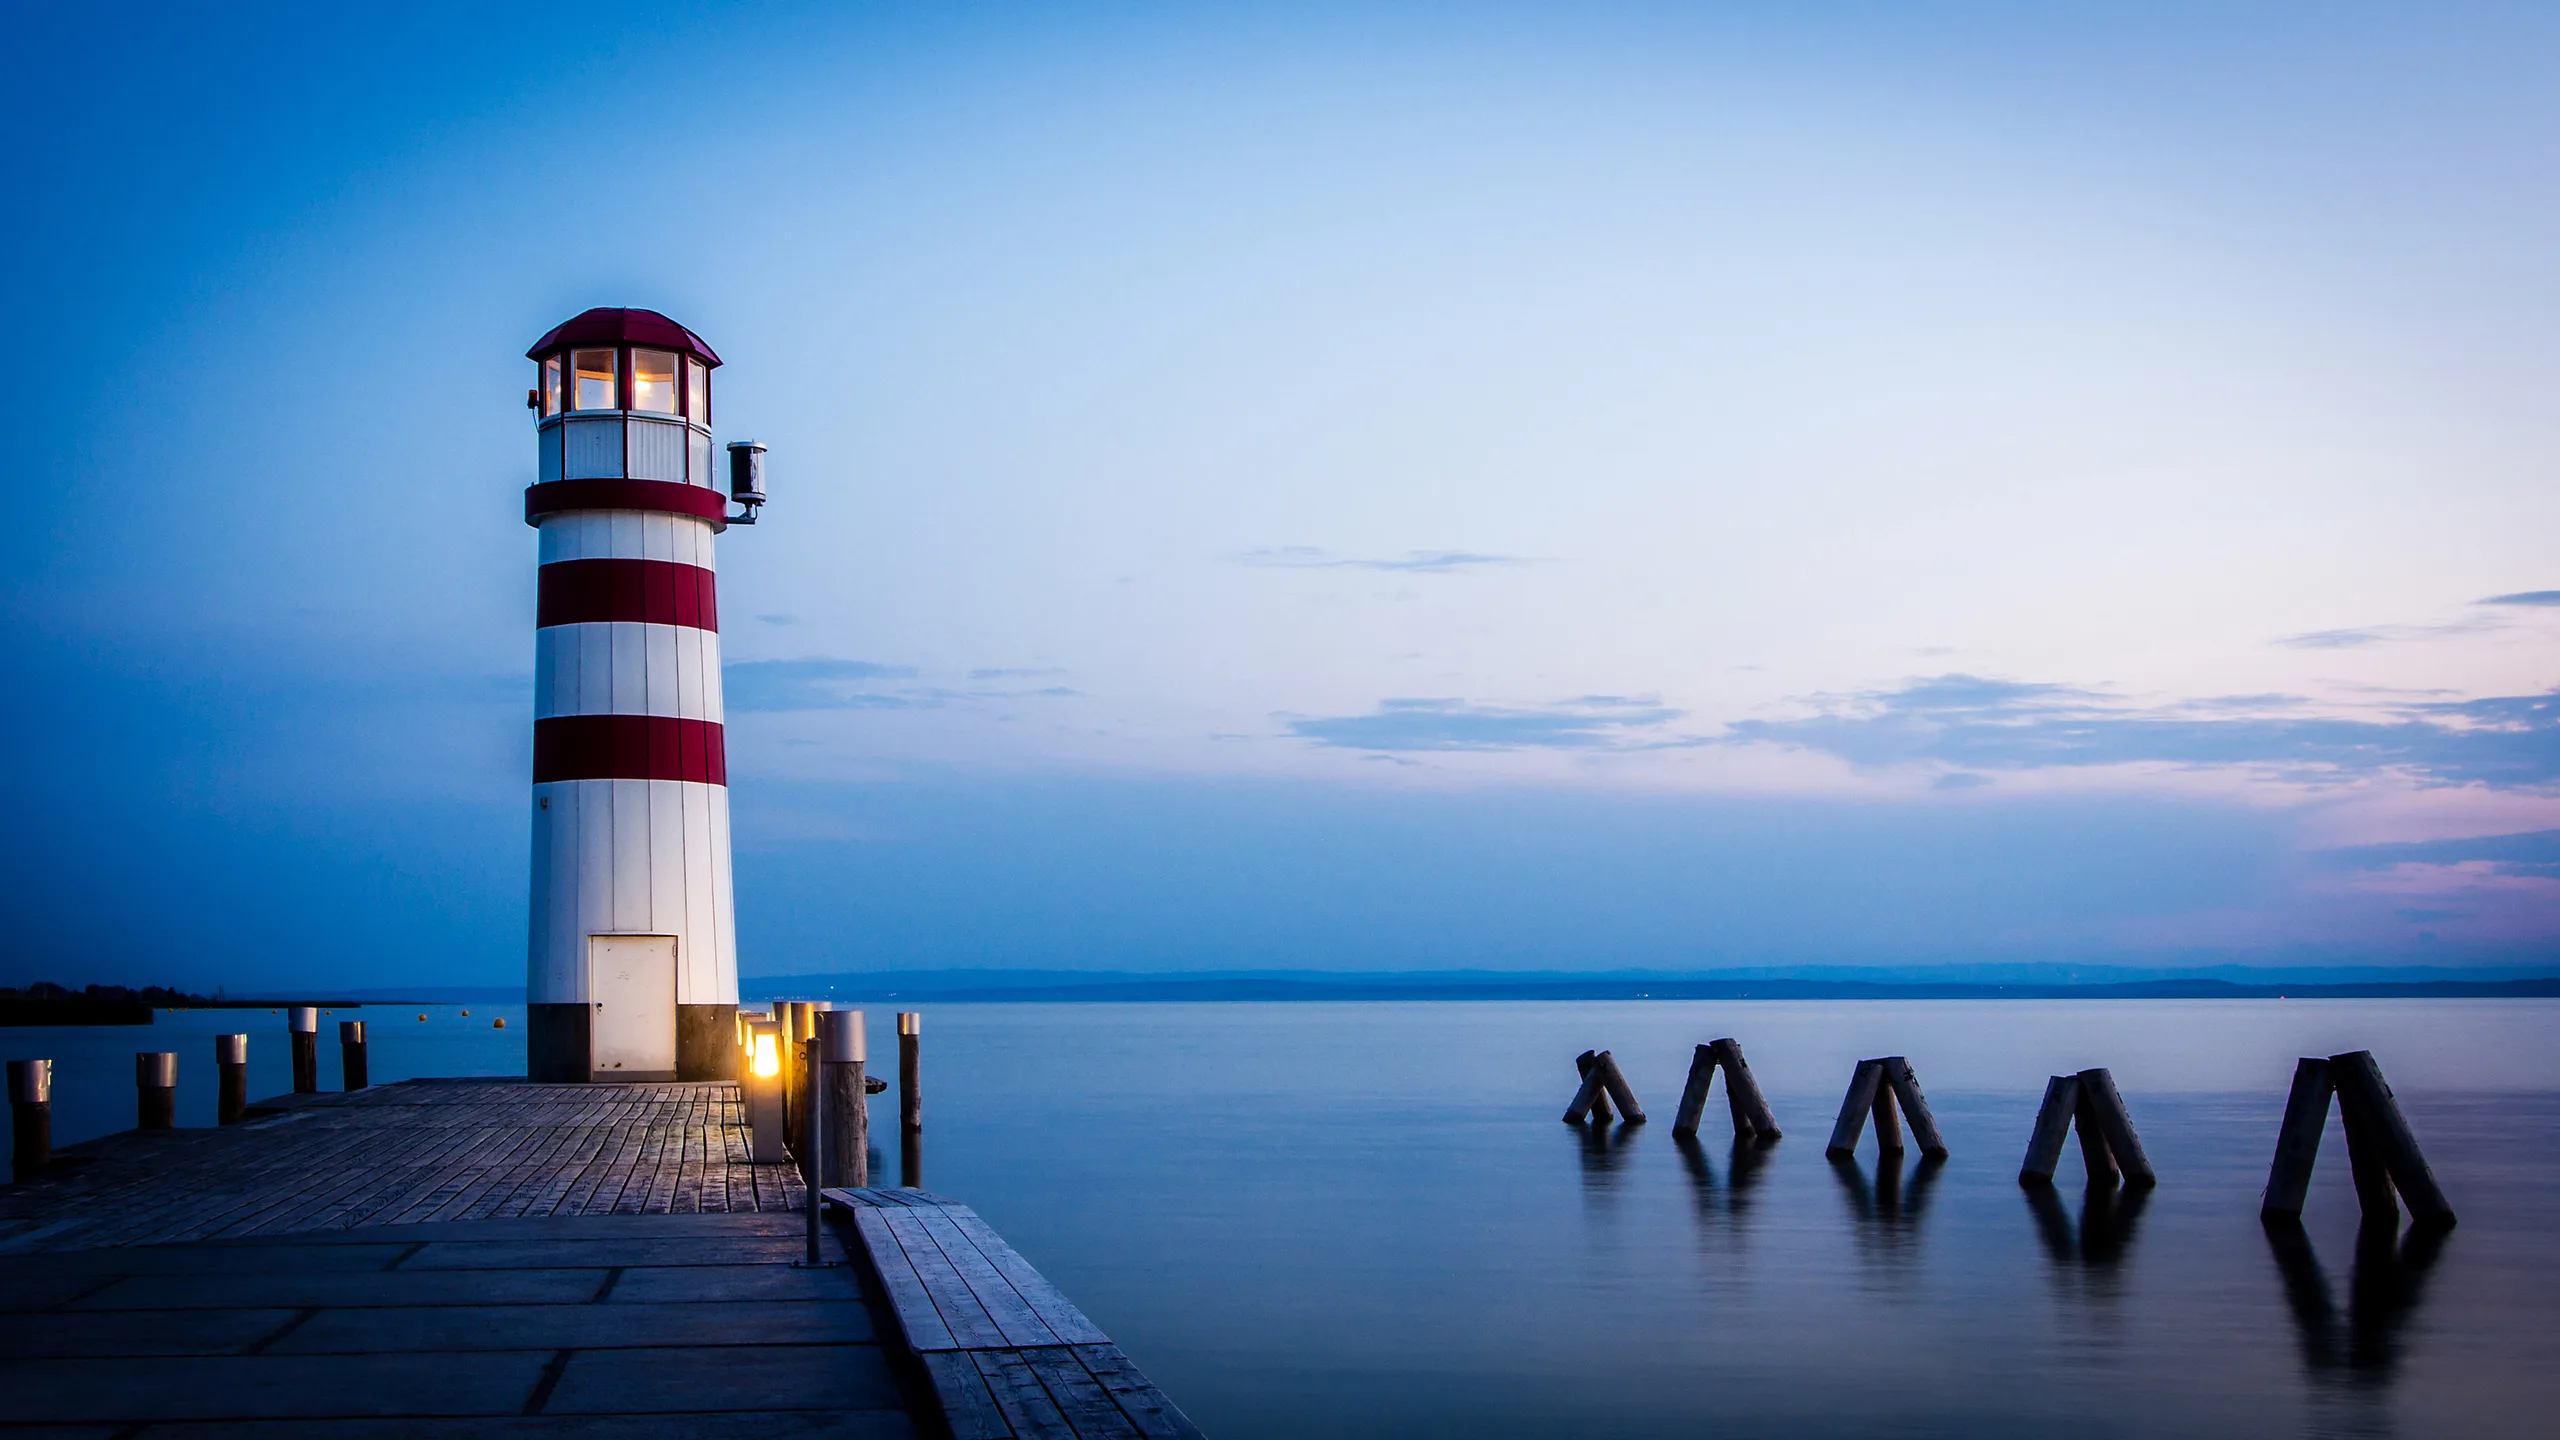
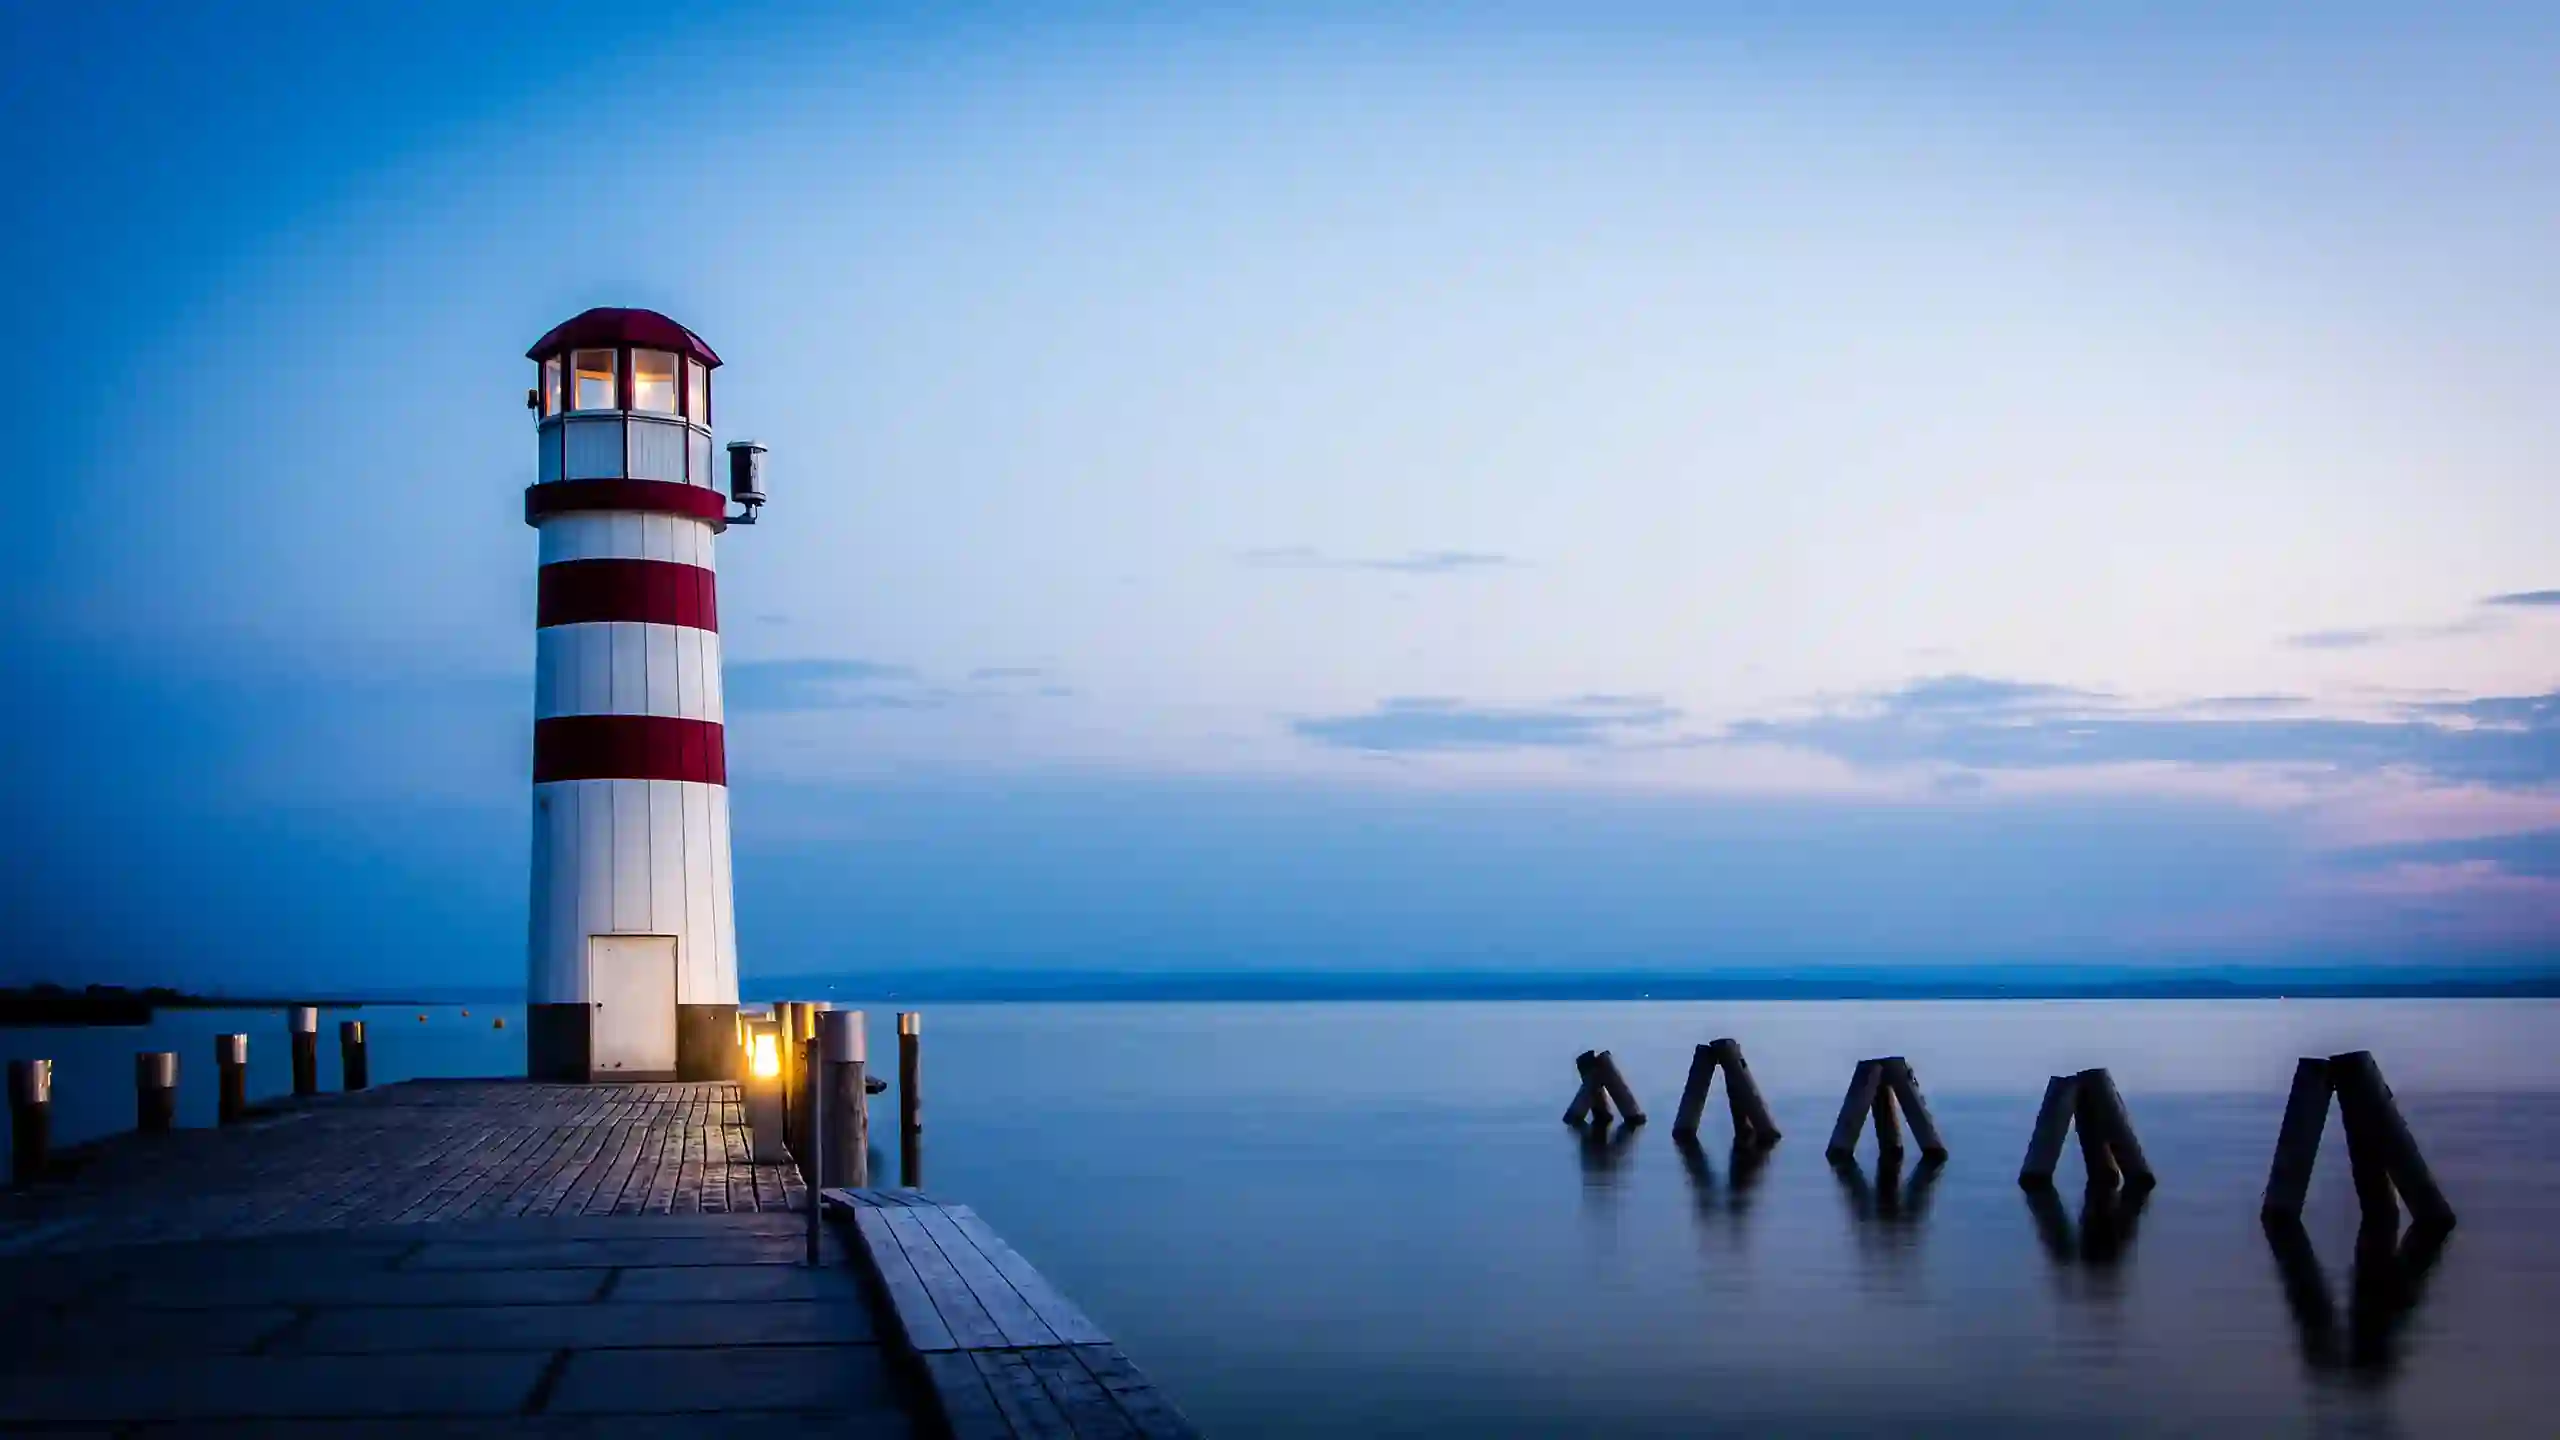
feat:深度优化代码提升流畅性

diff --git a/.workbuddy/memory/measure.js b/.workbuddy/memory/measure.js
@@ -1,0 +1,8 @@
+var nav = performance.getEntriesByType('navigation')[0];
+var res = performance.getEntriesByType('resource');
+var firstPaint = (performance.getEntriesByType('paint').find(function(p){return p.name==='first-paint'}) || {}).startTime;
+var firstContent = (performance.getEntriesByType('paint').find(function(p){return p.name==='first-contentful-paint'}) || {}).startTime;
+var total = res.reduce(function(s, r){ return s + (r.encodedBodySize || 0) }, 0);
+var wallpaper = res.filter(function(r){ return /wallpaper/.test(r.name) }).map(function(r){ return r.name.split('/').pop() + ' ' + r.encodedBodySize + 'B ' + Math.round(r.duration) + 'ms' });
+var scripts = res.filter(function(r){ return /\.js$/.test(r.name) }).map(function(r){ return r.name.split('/').pop() + ' ' + r.encodedBodySize + 'B ' + Math.round(r.duration) + 'ms' });
+JSON.stringify({loadMs: Math.round(nav.loadEventEnd - nav.startTime), totalB: total, paintFP: firstPaint, paintFCP: firstContent, wallpaper: wallpaper, scripts: scripts})

diff --git a/music.html b/music.html
@@ -8,6 +8,8 @@
 
   <title>音乐 · Ivy</title>
   <meta name="description" content="Ivy 的私人音乐播放页，分享一些喜欢的曲子。" />
+  <link rel="preload" as="image" href="assets/img/wallpaper-light.webp" fetchpriority="high" />
+  <link rel="preload" as="image" href="assets/img/wallpaper-dark.webp" fetchpriority="high" />
   <link rel="stylesheet" href="assets/css/style.css" />
   <link rel="icon" href="assets/img/favicon.jpg" />
 </head>
@@ -93,9 +95,9 @@
     </footer>
   </main>
 
-  <script src="assets/js/posts-data.js"></script>
-  <script src="assets/js/tracks.js"></script>
-  <script src="assets/js/app.js"></script>
-    <script src="assets/js/music-player.js"></script>
+  <script defer src="assets/js/posts-data.js"></script>
+  <script defer src="assets/js/tracks.js"></script>
+  <script defer src="assets/js/app.js"></script>
+    <script defer src="assets/js/music-player.js"></script>
 </body>
 </html>

diff --git a/index.html b/index.html
@@ -8,6 +8,9 @@
 
   <title>Ivy · 学习笔记与资源分享</title>
   <meta name="description" content="一个分享学习笔记、课程资料与各类资源的小站，采用 iOS 设计语言打造。" />
+  <link rel="preload" as="image" href="assets/img/wallpaper-light.webp" fetchpriority="high" />
+  <link rel="preload" as="image" href="assets/img/wallpaper-dark.webp" fetchpriority="high" />
+
   <link rel="stylesheet" href="assets/css/style.css" />
   <link rel="icon" href="assets/img/favicon.jpg" />
 </head>
@@ -206,8 +209,8 @@
     </footer>
   </main>
 
-  <script src="assets/js/posts-data.js"></script>
-  <script src="assets/js/tracks.js"></script>
-  <script src="assets/js/app.js"></script>
+  <script defer src="assets/js/posts-data.js"></script>
+  <script defer src="assets/js/tracks.js"></script>
+  <script defer src="assets/js/app.js"></script>
 </body>
 </html>

diff --git a/posts/writing-guide.html b/posts/writing-guide.html
@@ -8,6 +8,9 @@
 
   <title>写博客、推链接、传图片的完整教程 · Ivy</title>
   <meta name="description" content="手把手教你在这套博客里发文章、加链接、传图片/音频/大文件，并推送到 GitHub Pages。" />
+  <link rel="preload" as="image" href="../assets/img/wallpaper-light.webp" fetchpriority="high" />
+  <link rel="preload" as="image" href="../assets/img/wallpaper-dark.webp" fetchpriority="high" />
+
   <link rel="stylesheet" href="../assets/css/style.css" />
   <link rel="icon" href="../assets/img/favicon.jpg" />
 </head>
@@ -227,7 +230,7 @@ git push -u origin main</code></pre>
     </footer>
   </main>
 
-  <script src="../assets/js/posts-data.js"></script>
-  <script src="../assets/js/app.js"></script>
+  <script defer src="../assets/js/posts-data.js"></script>
+  <script defer src="../assets/js/app.js"></script>
 </body>
 </html>

diff --git a/posts/circuit-analysis-notes.html b/posts/circuit-analysis-notes.html
@@ -8,6 +8,9 @@
 
   <title>电路分析核心公式速查与直觉推导 · Ivy</title>
   <meta name="description" content="把电路分析里最容易混淆的公式，用一张图串起来。" />
+  <link rel="preload" as="image" href="../assets/img/wallpaper-light.webp" fetchpriority="high" />
+  <link rel="preload" as="image" href="../assets/img/wallpaper-dark.webp" fetchpriority="high" />
+
   <link rel="stylesheet" href="../assets/css/style.css" />
   <link rel="icon" href="../assets/img/favicon.jpg" />
 </head>
@@ -123,7 +126,7 @@ R_21·I_1 + R_22·I_2 = V_2</code></pre>
     </footer>
   </main>
 
-  <script src="../assets/js/posts-data.js"></script>
-  <script src="../assets/js/app.js"></script>
+  <script defer src="../assets/js/posts-data.js"></script>
+  <script defer src="../assets/js/app.js"></script>
 </body>
 </html>

diff --git a/posts/study-resources-pack.html b/posts/study-resources-pack.html
@@ -8,6 +8,9 @@
 
   <title>大二秋冬课程资料合集（网盘分享）· Ivy</title>
   <meta name="description" content="电路、信号与系统、电磁场等课程的课件、习题与往年试卷整理打包。" />
+  <link rel="preload" as="image" href="../assets/img/wallpaper-light.webp" fetchpriority="high" />
+  <link rel="preload" as="image" href="../assets/img/wallpaper-dark.webp" fetchpriority="high" />
+
   <link rel="stylesheet" href="../assets/css/style.css" />
   <link rel="icon" href="../assets/img/favicon.jpg" />
 </head>
@@ -112,7 +115,7 @@
     </footer>
   </main>
 
-  <script src="../assets/js/posts-data.js"></script>
-  <script src="../assets/js/app.js"></script>
+  <script defer src="../assets/js/posts-data.js"></script>
+  <script defer src="../assets/js/app.js"></script>
 </body>
 </html>

diff --git a/posts/effective-note-taking.html b/posts/effective-note-taking.html
@@ -8,6 +8,9 @@
 
   <title>如何建立一套真正用得上的笔记系统 · Ivy</title>
   <meta name="description" content="从收集、整理到回顾，聊聊用 Obsidian 打磨三年的笔记方法论。" />
+  <link rel="preload" as="image" href="../assets/img/wallpaper-light.webp" fetchpriority="high" />
+  <link rel="preload" as="image" href="../assets/img/wallpaper-dark.webp" fetchpriority="high" />
+
   <link rel="stylesheet" href="../assets/css/style.css" />
   <link rel="icon" href="../assets/img/favicon.jpg" />
 </head>
@@ -128,7 +131,7 @@
     </footer>
   </main>
 
-  <script src="../assets/js/posts-data.js"></script>
-  <script src="../assets/js/app.js"></script>
+  <script defer src="../assets/js/posts-data.js"></script>
+  <script defer src="../assets/js/app.js"></script>
 </body>
 </html>

diff --git a/posts/why-i-write.html b/posts/why-i-write.html
@@ -8,6 +8,9 @@
 
   <title>为什么我坚持公开写学习笔记 · Ivy</title>
   <meta name="description" content="记录搭建这个博客的初衷，以及写作对我的改变。" />
+  <link rel="preload" as="image" href="../assets/img/wallpaper-light.webp" fetchpriority="high" />
+  <link rel="preload" as="image" href="../assets/img/wallpaper-dark.webp" fetchpriority="high" />
+
   <link rel="stylesheet" href="../assets/css/style.css" />
   <link rel="icon" href="../assets/img/favicon.jpg" />
 </head>
@@ -105,7 +108,7 @@
     </footer>
   </main>
 
-  <script src="../assets/js/posts-data.js"></script>
-  <script src="../assets/js/app.js"></script>
+  <script defer src="../assets/js/posts-data.js"></script>
+  <script defer src="../assets/js/app.js"></script>
 </body>
 </html>

diff --git a/login.html b/login.html
@@ -8,6 +8,9 @@
 
   <title>登录 · Ivy 学习笔记与资源分享</title>
   <meta name="description" content="Ivy 博客登录页 — 把学到的东西，认真地记下来。" />
+  <link rel="preload" as="image" href="assets/img/wallpaper-light.webp" fetchpriority="high" />
+  <link rel="preload" as="image" href="assets/img/wallpaper-dark.webp" fetchpriority="high" />
+
   <link rel="stylesheet" href="assets/css/style.css" />
   <link rel="stylesheet" href="assets/css/login.css" />
   <link rel="icon" href="assets/img/favicon.jpg" />
@@ -161,6 +164,6 @@
   <!-- Toast -->
   <div class="toast" id="toast" role="status" aria-live="polite"></div>
 
-  <script src="assets/js/login.js"></script>
+  <script defer src="assets/js/login.js"></script>
 </body>
 </html>

diff --git a/notes.html b/notes.html
@@ -8,6 +8,9 @@
 
   <title>学习笔记 · Ivy</title>
   <meta name="description" content="Ivy 的学习笔记合集：课程总结、公式推导、读书方法与思维框架。" />
+  <link rel="preload" as="image" href="assets/img/wallpaper-light.webp" fetchpriority="high" />
+  <link rel="preload" as="image" href="assets/img/wallpaper-dark.webp" fetchpriority="high" />
+
   <link rel="stylesheet" href="assets/css/style.css" />
   <link rel="icon" href="assets/img/favicon.jpg" />
 </head>
@@ -86,7 +89,7 @@
     </footer>
   </main>
 
-  <script src="assets/js/posts-data.js"></script>
-  <script src="assets/js/app.js"></script>
+  <script defer src="assets/js/posts-data.js"></script>
+  <script defer src="assets/js/app.js"></script>
 </body>
 </html>

diff --git a/posts.html b/posts.html
@@ -8,6 +8,9 @@
 
   <title>全部文章 · Ivy</title>
   <meta name="description" content="Ivy的全部文章列表，可按分类筛选与搜索。" />
+  <link rel="preload" as="image" href="assets/img/wallpaper-light.webp" fetchpriority="high" />
+  <link rel="preload" as="image" href="assets/img/wallpaper-dark.webp" fetchpriority="high" />
+
   <link rel="stylesheet" href="assets/css/style.css" />
   <link rel="icon" href="assets/img/favicon.jpg" />
 </head>
@@ -87,7 +90,7 @@
     </footer>
   </main>
 
-  <script src="assets/js/posts-data.js"></script>
-  <script src="assets/js/app.js"></script>
+  <script defer src="assets/js/posts-data.js"></script>
+  <script defer src="assets/js/app.js"></script>
 </body>
 </html>

diff --git a/resources.html b/resources.html
@@ -8,6 +8,9 @@
 
   <title>资源分享 · Ivy</title>
   <meta name="description" content="课程资料、工具与网盘资源合集。" />
+  <link rel="preload" as="image" href="assets/img/wallpaper-light.webp" fetchpriority="high" />
+  <link rel="preload" as="image" href="assets/img/wallpaper-dark.webp" fetchpriority="high" />
+
   <link rel="stylesheet" href="assets/css/style.css" />
   <link rel="icon" href="assets/img/favicon.jpg" />
 </head>
@@ -144,7 +147,7 @@
     </footer>
   </main>
 
-  <script src="assets/js/posts-data.js"></script>
-  <script src="assets/js/app.js"></script>
+  <script defer src="assets/js/posts-data.js"></script>
+  <script defer src="assets/js/app.js"></script>
 </body>
 </html>
